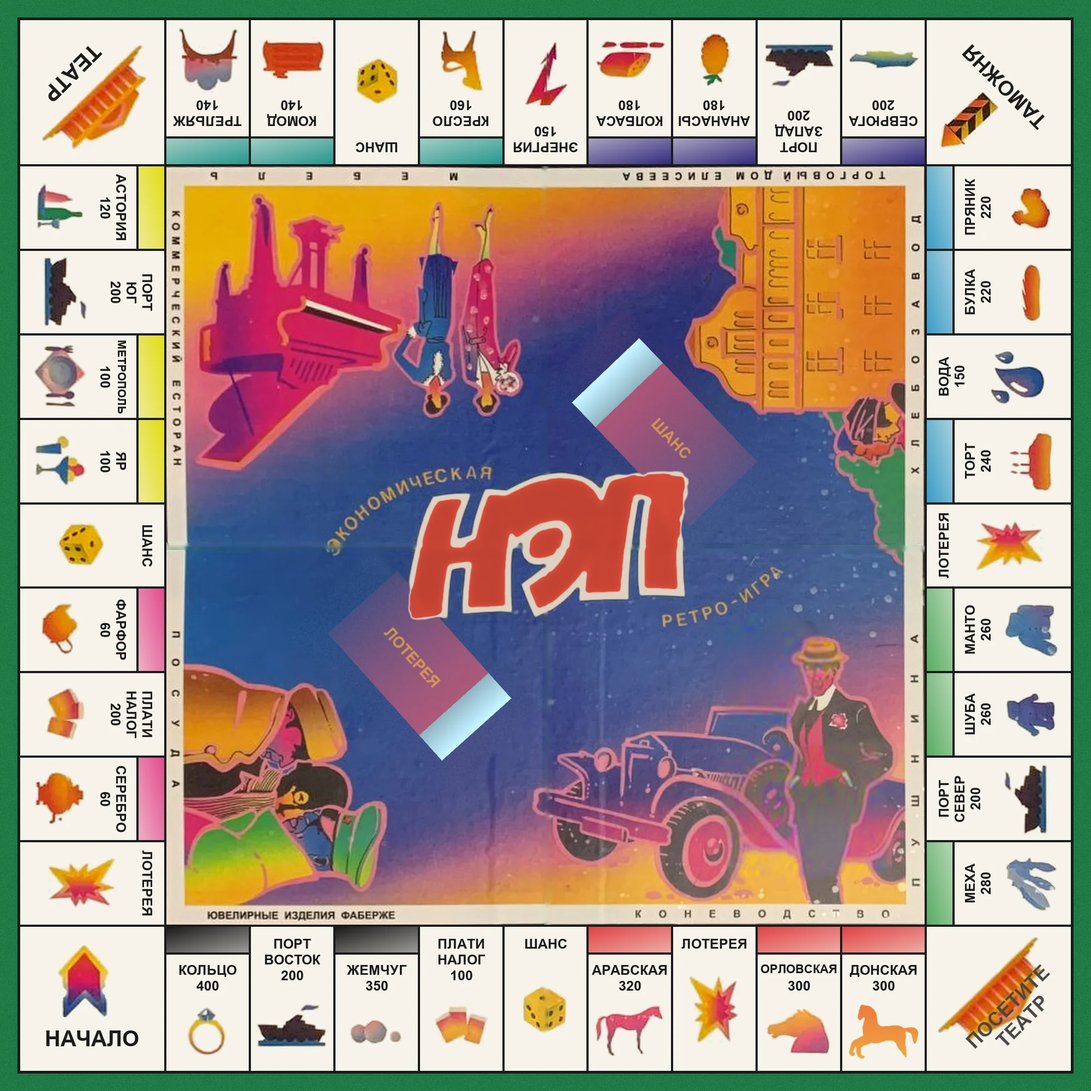
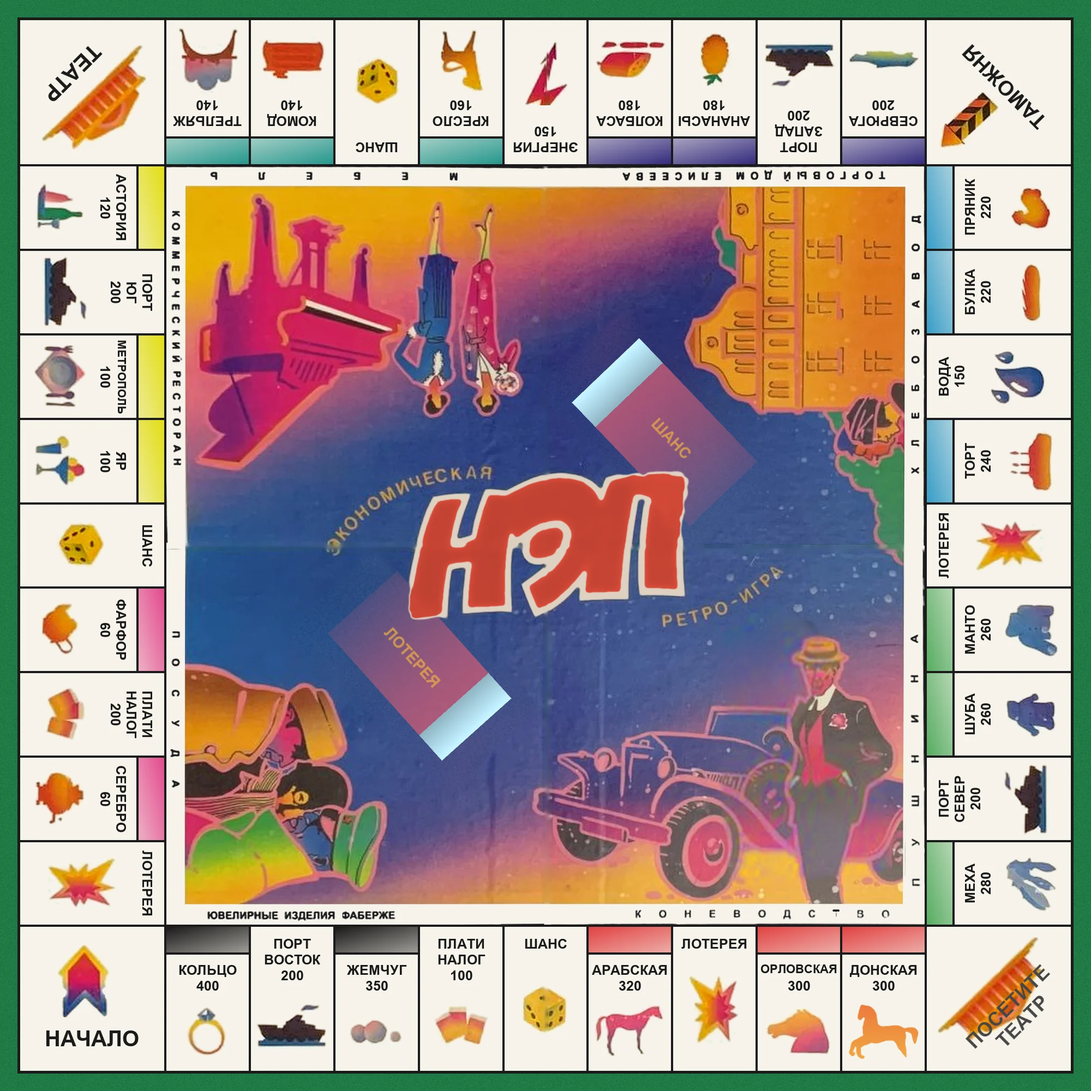
НЭП: каёмка центра с подписями отраслей отбелена до цвета клеток

Changed region(s): [[0.155, 0.155, 0.868, 0.868]]

diff --git a/lavochka/tools/manager/nep/whiten.py b/lavochka/tools/manager/nep/whiten.py
@@ -1,0 +1,61 @@
+# Каёмка центра (белая полоса с подписями отраслей) — отбелить до цвета клеток, надписи оставить чёрными.
+# Граница каёмки с картинкой ищется по каждой строке/столбцу (первый насыщенный пиксель), сглаживается и делается чёткой.
+import cv2, numpy as np
+src = cv2.imread('D:/temp/nep/center_before_white.png')
+c = src.astype(np.float32)
+W = c.shape[0]
+PAPER = np.array([234, 243, 246], np.float32)  # BGR, как клетки поля
+INK = np.array([30, 28, 28], np.float32)
+sat = cv2.cvtColor(src, cv2.COLOR_BGR2HSV)[..., 1].astype(np.float32)
+lum = cv2.cvtColor(src, cv2.COLOR_BGR2GRAY).astype(np.float32)
+
+
+def edge(prof2d):
+    """prof2d: [длина стороны, глубина от края] — где начинается картинка (насыщенность > 90), сглажено медианой."""
+    hit = prof2d > 90
+    # картинка — подряд 5 насыщенных пикселей (тёмные буквы каёмки тоже бывают насыщенными)
+    run = hit.copy()
+    for k in range(1, 5):
+        run[:, :-k] &= hit[:, k:]
+    hit = run
+    hit[:, :28] = False
+    pos = np.where(hit.any(1), hit.argmax(1), 40).astype(np.float32)
+    pos = np.clip(pos, 25, 48)
+    # прямая линия по устойчивой подгонке: край каёмки на поле — прямой
+    xs_ = np.arange(len(pos)); ok = (pos > 28) & (pos < 48)
+    p = np.polyfit(xs_[ok], pos[ok], 1)
+    for _ in range(4):
+        ok &= np.abs(np.polyval(p, xs_) - pos) < 3
+        p = np.polyfit(xs_[ok], pos[ok], 1)
+    return np.polyval(p, xs_) + 0.5
+
+
+top = edge(sat[:60, :].T)
+bot = edge(sat[::-1][:60, :].T)
+left = edge(sat[:, :60])
+right = edge(sat[:, ::-1][:, :60])
+ys, xs = np.mgrid[0:W, 0:W].astype(np.float32)
+# расстояние «внутрь» от края каёмки (отрицательное — каёмка), по ближайшей стороне
+inside = np.minimum.reduce([ys - top[xs.astype(int)], (W - 1 - ys) - bot[xs.astype(int)], xs - left[ys.astype(int)], (W - 1 - xs) - right[ys.astype(int)]])
+m = np.clip(0.5 - inside / 1.2, 0, 1)  # 1 — каёмка, чёткий край в 1–2 пикселя
+
+bg = cv2.morphologyEx(lum, cv2.MORPH_CLOSE, cv2.getStructuringElement(cv2.MORPH_ELLIPSE, (15, 15)))
+bg = cv2.GaussianBlur(bg, (0, 0), 6)
+t = np.clip((bg - lum - 28) / np.maximum(bg - 45 - 28, 30) * 1.3, 0, 1)
+# сгибы поперёк каёмки — не буквы
+cr = ((np.abs(xs - 731) < 6) & ((ys < 60) | (ys > W - 60))) | ((np.abs(ys - 729) < 6) & ((xs < 60) | (xs > W - 60)))
+t[cr & (t < 0.4)] = 0
+t[1426:1450, 333:339] = 0  # пятнышко на фото между «изделия» и «Фаберже»
+# у самой границы с картинкой букв нет — там только размытый край фото
+t *= np.clip((-inside - 3) / 3, 0, 1)
+out_band = PAPER * (1 - t[..., None]) + INK * t[..., None]
+out = c * (1 - m[..., None]) + out_band * m[..., None]
+# «Т» в «КОНЕВОДСТВО» на фото выцвела — усилить
+r = out[1424:1452, 1278:1300]
+lr = r.mean(2)
+t2 = np.clip((238 - lr) / 45, 0, 1)[..., None]
+out[1424:1452, 1278:1300] = PAPER * (1 - t2) + INK * t2
+# «КОММЕРЧЕСКИЙ ЕСТОРАН»: «Р» на поле не пропечаталась — копия «Р» из того же слова на пустое место
+out[390:411, 3:34] = out[508:529, 3:34].copy()
+o8 = np.clip(out, 0, 255).astype(np.uint8)
+cv2.imwrite('D:/temp/nep/center.png', o8)

diff --git a/lavochka/tools/manager/nep/README.md b/lavochka/tools/manager/nep/README.md
@@ -4,6 +4,7 @@
 
 1. `rect.py` — выпрямить центр с основного фото по углам внутреннего квадрата → `c1.png`; `align.py` (SIFT) — подогнать к нему второе фото и pikabu → `c0.png`, `c2.png`.
 2. `center.py` — склейка: машина и человек — со второго фото (на основном там кубики и патент), под карточками — pikabu; сгибы затёрты → `center0.png`.
+   `whiten.py` — каёмка с подписями отраслей отбелена до цвета клеток (край с картинкой — прямой, буквы — чёрные; на поле не пропечаталась «Р» в «ресторане» — вставлена копия).
    `center2.py` — места под колоды «Шанс»/«Лотерея» нарисованы заново, логотип «НЭП» — чистым контуром по маске → `center.png`.
 3. Всё поле выпрямлено с основного фото (`rect.py` по внешним углам → `full1.png`), `fullclean.py` затирает сгибы, `icons.py` / `cornericons.py` режут значки клеток и углов (фон — прозрачный).
    Заменены: кубик «Шанса» и звезда «Лотереи» на сгибе — соседними такими же; порты — одним кораблём; конь «Донской» (под фишкой) — силуэт со второго фото с заливкой; молния «Энергии» — узкой заплаткой по сгибу.
